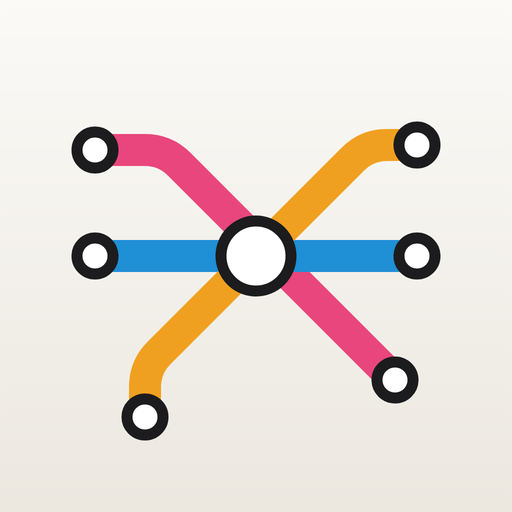
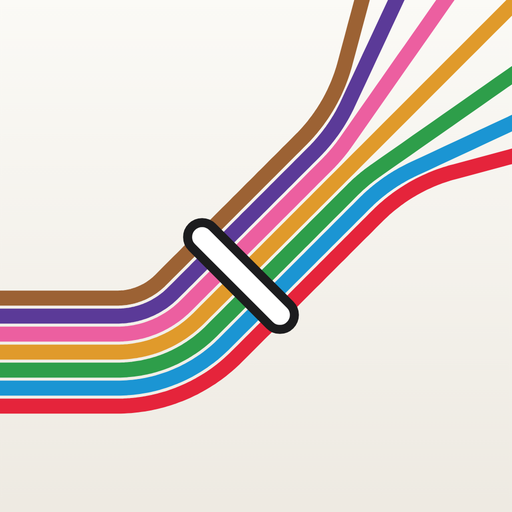
アイコンを坂戸市役所の7路線が集まる様子をモチーフに変更

diff --git a/sw.js b/sw.js
@@ -1,5 +1,5 @@
 // オフライン対応：アプリ本体を端末に保存し、オンライン時は裏で最新版を取りに行く
-const CACHE='busmap-v1';
+const CACHE='busmap-v2';
 const FILES=['./','./index.html','./manifest.webmanifest','./icons/icon-192.png','./icons/icon-512.png','./icons/maskable-512.png','./icons/apple-touch-icon.png'];
 self.addEventListener('install',e=>{e.waitUntil(caches.open(CACHE).then(c=>c.addAll(FILES)).then(()=>self.skipWaiting()))});
 self.addEventListener('activate',e=>{e.waitUntil(caches.keys().then(ks=>Promise.all(ks.filter(k=>k!==CACHE).map(k=>caches.delete(k)))).then(()=>self.clients.claim()))});

diff --git a/src/icon_gen.py b/src/icon_gen.py
@@ -1,0 +1,46 @@
+import math
+cols=['#9c6234','#5b3a98','#ec5fa0','#e09a2b','#2e9e4a','#1b95d3','#e5243b']  # 坂戸市役所を通る7路線（関間→市役所の並び順）
+N=len(cols);d=36;w=30
+def pts_lane(i):
+    o=(i-(N-1)/2)*d           # +o = 右側(進行方向に対して)
+    P=[]
+    # 区間1: 左端から水平に右へ (方向0°)、y=Y0
+    Y0=700;X1=250;R=230      # R: 中心線の曲率半径（左折=上へ）
+    th0=0;th1=math.radians(45)
+    # 法線(右側)=進行方向を時計回り90°: dir(cos t, -sin t) 画面座標でyは下向き
+    def nrm(t):return (math.sin(t),math.cos(t))
+    def dr(t):return (math.cos(t),-math.sin(t))
+    for x in range(-80,X1+1,10):P.append((x+o*nrm(0)[0],Y0+o*nrm(0)[1]))
+    cx,cy=X1,Y0-R
+    for k in range(1,41):
+        t=th1*k/40;px=cx+R*math.sin(t);py=cy+R*math.cos(t)
+        n=nrm(t);P.append((px+o*n[0],py+o*n[1]))
+    # 直線（駅を通る）
+    L=400;sx,sy=cx+R*math.sin(th1),cy+R*math.cos(th1);D=dr(th1);n=nrm(th1)
+    for k in range(1,41):
+        px=sx+D[0]*L*k/40;py=sy+D[1]*L*k/40;P.append((px+o*n[0],py+o*n[1]))
+    ex,ey=px,py
+    # 分岐：各線が少しずつ違う方向へ広がる
+    a=math.radians((i-(N-1)/2)*-10)   # 右側の線ほど右へ
+    t=th1;x,y=ex+o*n[0],ey+o*n[1];Rf=340
+    steps=40
+    for k in range(steps):
+        t+=-a/steps*-1 if False else a/steps
+        dx,dy=dr(t);x+=dx*abs(a)*Rf/steps if a else dx*0;y+=dy*abs(a)*Rf/steps if a else 0
+        if a:P.append((x,y))
+    dx,dy=dr(t)
+    for k in range(1,30):P.append((x+dx*25*k,y+dy*25*k))
+    return P,(sx+D[0]*L*0.3,sy+D[1]*L*0.3),th1
+svg=['<svg xmlns="http://www.w3.org/2000/svg" viewBox="0 0 1024 1024">',
+'<defs><linearGradient id="bg" x1="0" y1="0" x2="0" y2="1"><stop offset="0" stop-color="#fbfaf6"/><stop offset="1" stop-color="#eeeae2"/></linearGradient></defs>',
+'<rect width="1024" height="1024" fill="url(#bg)"/>']
+_,C0,_=pts_lane(0);SX,SY=512-C0[0]-30,512-C0[1]+40
+for i,c in enumerate(cols):
+    P,C,th=pts_lane(i);P=[(x+SX,y+SY) for x,y in P];C=(C[0]+SX,C[1]+SY)
+    svg.append('<polyline fill="none" stroke="%s" stroke-width="%d" stroke-linejoin="round" stroke-linecap="round" points="%s"/>'%(c,w,' '.join('%.1f,%.1f'%p for p in P)))
+# 駅（カプセル）：束に直交
+cx,cy=C;ang=-45+90
+Lc=N*d+26;Hc=58
+svg.append('<g transform="translate(%.1f %.1f) rotate(%.1f)"><rect x="%.1f" y="%.1f" width="%.1f" height="%d" rx="%.1f" fill="#fff" stroke="#1c1c1e" stroke-width="18"/></g>'%(cx,cy,ang,-Lc/2,-Hc/2,Lc,Hc,Hc/2))
+svg.append('</svg>')
+open('icon.svg','w').write('\n'.join(svg))
